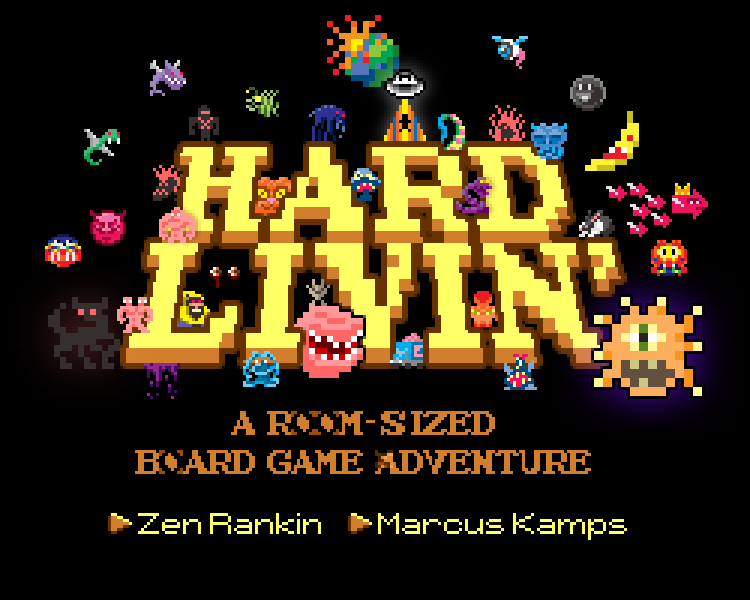
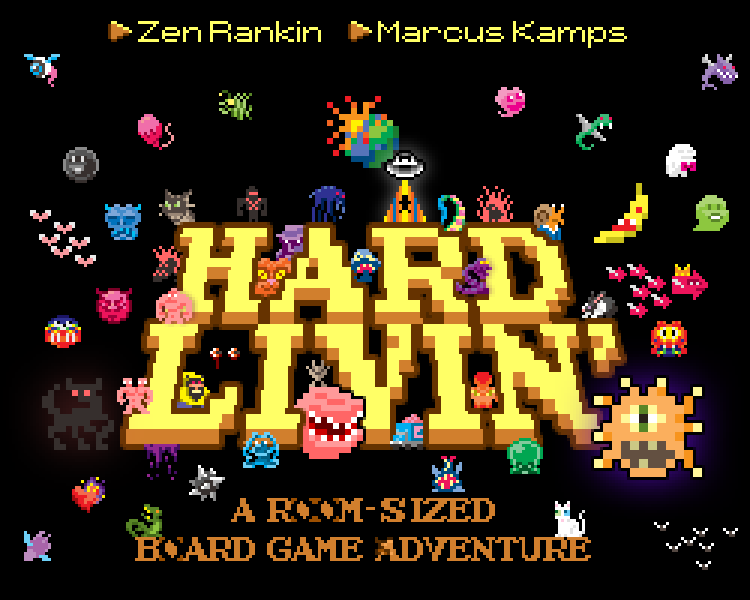
Update website main page

diff --git a/hardlivin/static/title.css b/hardlivin/static/title.css
@@ -1,23 +1,27 @@
-body { background: #000; color: #ff6; }
+body { background: #000; color: #fff; }
 
-a { color: #c63; text-decoration: none; }
+a { color: #fff; text-decoration: none; }
 a:hover { border-bottom: 1px dotted #c63; }
 
-.title { width: 750px; margin: 50px auto 0; position: relative; z-index: 1; }
+.title { width: 750px; margin: 15px auto 0; position: relative; z-index: 1; }
 .title div { background: url('/static/title.png'); position: absolute; z-index: 2; }
 .title div:hover, .title div.hover { background-image: url('/static/title-overlay.png'); }
-.title .h { width: 105px; height: 96px; left: 162px; top: 147px; background-position: -162px -147px; }
-.title .a { width: 93px; height: 96px; left: 270px; top: 147px; background-position: -270px -147px; }
-.title .r { width: 96px; height: 96px; left: 372px; top: 147px; background-position: -372px -147px; }
-.title .d { width: 102px; height: 96px; left: 468px; top: 147px; background-position: -468px -147px; }
-.title .l { width: 111px; height: 120px; left: 126px; top: 243px; background-position: -126px -243px; }
-.title .i1 { width: 60px; height: 120px; left: 243px; top: 243px; background-position: -243px -243px; }
-.title .v { width: 99px; height: 120px; left: 315px; top: 243px; background-position: -315px -243px; }
-.title .i2 { width: 60px; height: 120px; left: 423px; top: 243px; background-position: -423px -243px; 
+.title .h { width: 105px; height: 96px; left: 162px; top: 228px; background-position: -162px -228px; }
+.title .a { width: 93px; height: 96px; left: 270px; top: 228px; background-position: -270px -228px; }
+.title .r { width: 96px; height: 96px; left: 372px; top: 228px; background-position: -372px -228px; }
+.title .d { width: 102px; height: 96px; left: 468px; top: 228px; background-position: -468px -228px; }
+.title .l { width: 111px; height: 120px; left: 126px; top: 324px; background-position: -126px -324px; }
+.title .i1 { width: 60px; height: 120px; left: 243px; top: 324px; background-position: -243px -324px; }
+.title .v { width: 99px; height: 120px; left: 315px; top: 324px; background-position: -315px -324px; }
+.title .i2 { width: 60px; height: 120px; left: 423px; top: 324px; background-position: -423px -324px; 
 	z-index: 3; }
-.title .n { width: 120px; height: 120px; left: 480px; top: 243px; background-position: -480px -243px; }
-.title .ap { width: 33px; height: 48px; left: 588px; top: 243px; background-position: -588px -243px;
+.title .n { width: 120px; height: 120px; left: 480px; top: 324px; background-position: -480px -324px; }
+.title .ap { width: 33px; height: 48px; left: 588px; top: 324px; background-position: -588px -324px;
 	z-index: 3; }
 
-p { font-size: 18px; text-align: center; }
-.large { margin-top: 0; font-size: 24px; }
+.feature { margin: 0 auto 60px; color: #9c3; font-size: 36px; text-align: center; }
+.feature span { color: #ff6; font-size: 120%; font-weight: bold; text-shadow: 0 3px 0 #c63; }
+
+p { width: 750px; margin: 30px auto; font-size: 20px; line-height: 36px; text-align: justify; }
+
+.gallery { margin: 60px auto; text-align: center; }

diff --git a/hardlivin/templates/title.html b/hardlivin/templates/title.html
@@ -21,7 +21,33 @@
 			<div class='n'></div>
 			<div class='ap'></div>
 		</div>
-		<p class='large'>February 8 &ndash; 23, 2014</p>
-		<p><a href='http://www.hashtaggallery.com' target='_blank'>#HASHTAG Gallery</a>, 801 Dundas St. W., Toronto</p>
+		<div class='feature'>
+			Opening Saturday,<br />
+			<img src='static/arrow-right.png' />
+			<span>February 8, 2014</span> @ <span>7pm</span>
+			<img src='static/arrow-left.png' /><br />
+			Events through February 23
+		</div>
+		<p>
+			Hard Livin' is a life-sized board game that will fill Hashtag's walls with over
+			500 unique pieces of hand-painted pixel art. Experience this larger-than-life obstacle
+			course as you discover the trials and triumphs of a game that explores the state of
+			mind a person may experience while manouvering through a difficult period in their life.
+			Your survival depends on the choices you make and your ability to discover patterns and
+			adopt strategies. Succeed, and you could win a prize graciously donated by one of our
+			generous sponsors—A&amp;C Games, Snakes &amp; Lattes, Snakes &amp; Lagers,
+			and Guerilla Printing.
+		</p>
+		<p>
+			Bring a friend or a loved one who can help you through hard times, or rely on the
+			kindness of strangers. Do you have what it takes to beat Hard Livin'?
+		</p>
+		<p class='gallery'>
+			<a href='http://www.hashtaggallery.com/2014/01/11/feb-8-28-zen-rankin-marcus-kamps-hard-livin/' target='_blank'>
+				<img src='static/gallery.png' alt='#HASHTAG Gallery' />
+			</a><br />
+			801 Dundas St. W., Toronto
+		</p>
+		<p><img src='static/logos.png' alt='A&amp;C Games, Guerilla Printing, Snakes &amp; Lattes, Snakes &amp; Lagers' /></p>
 	</body>
 </html>
